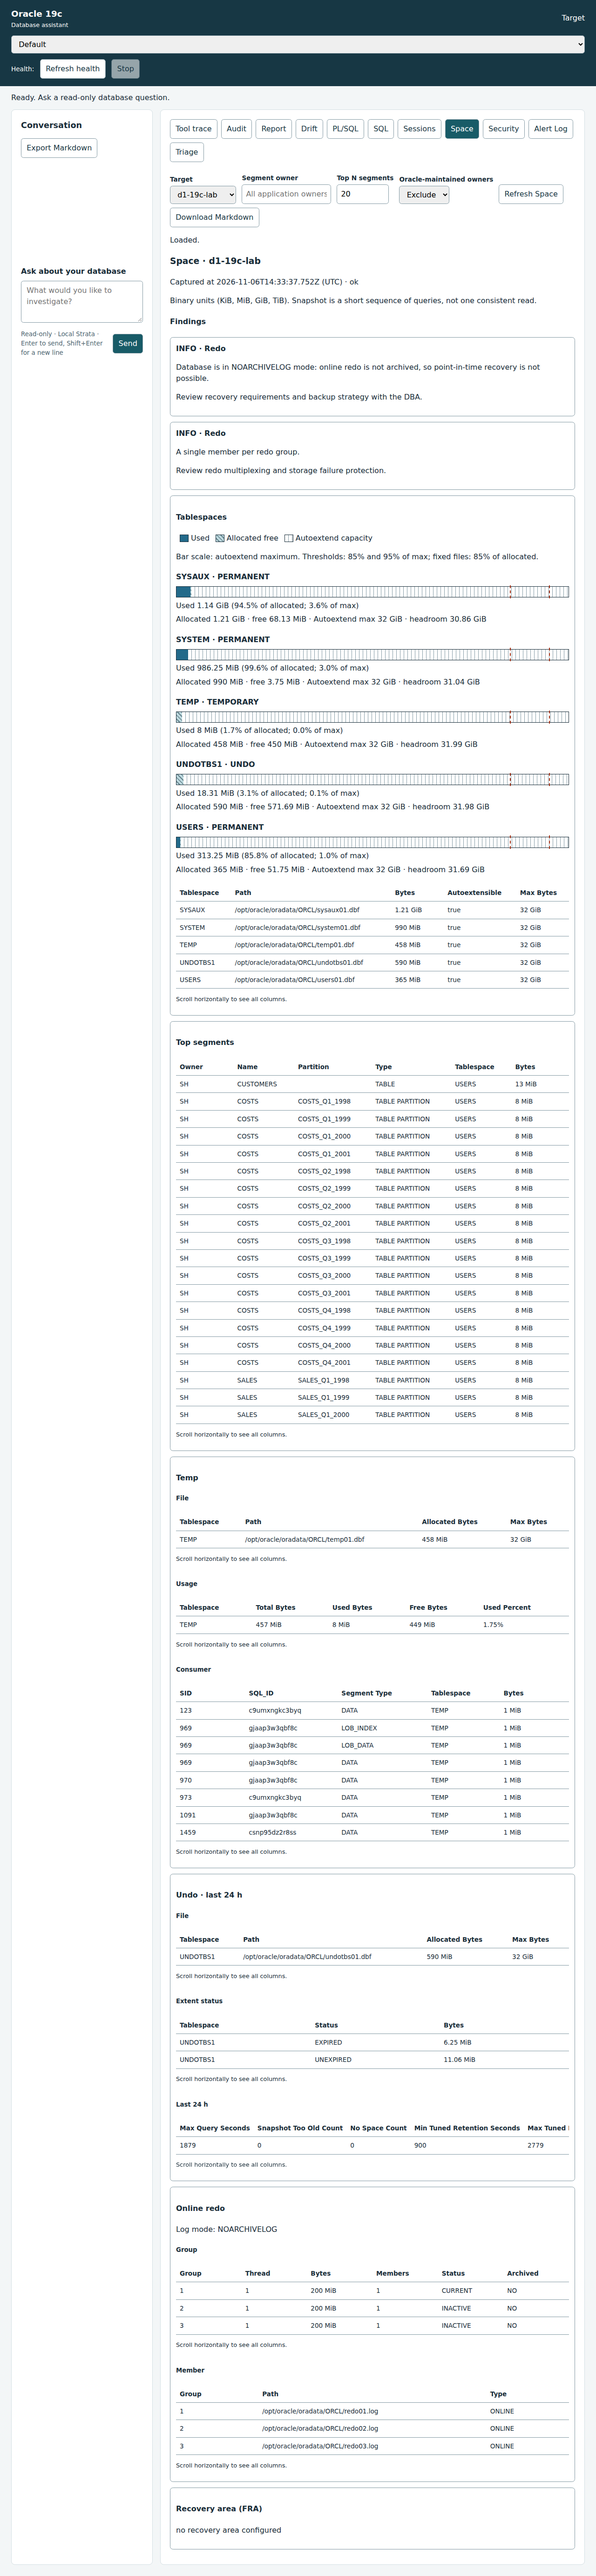
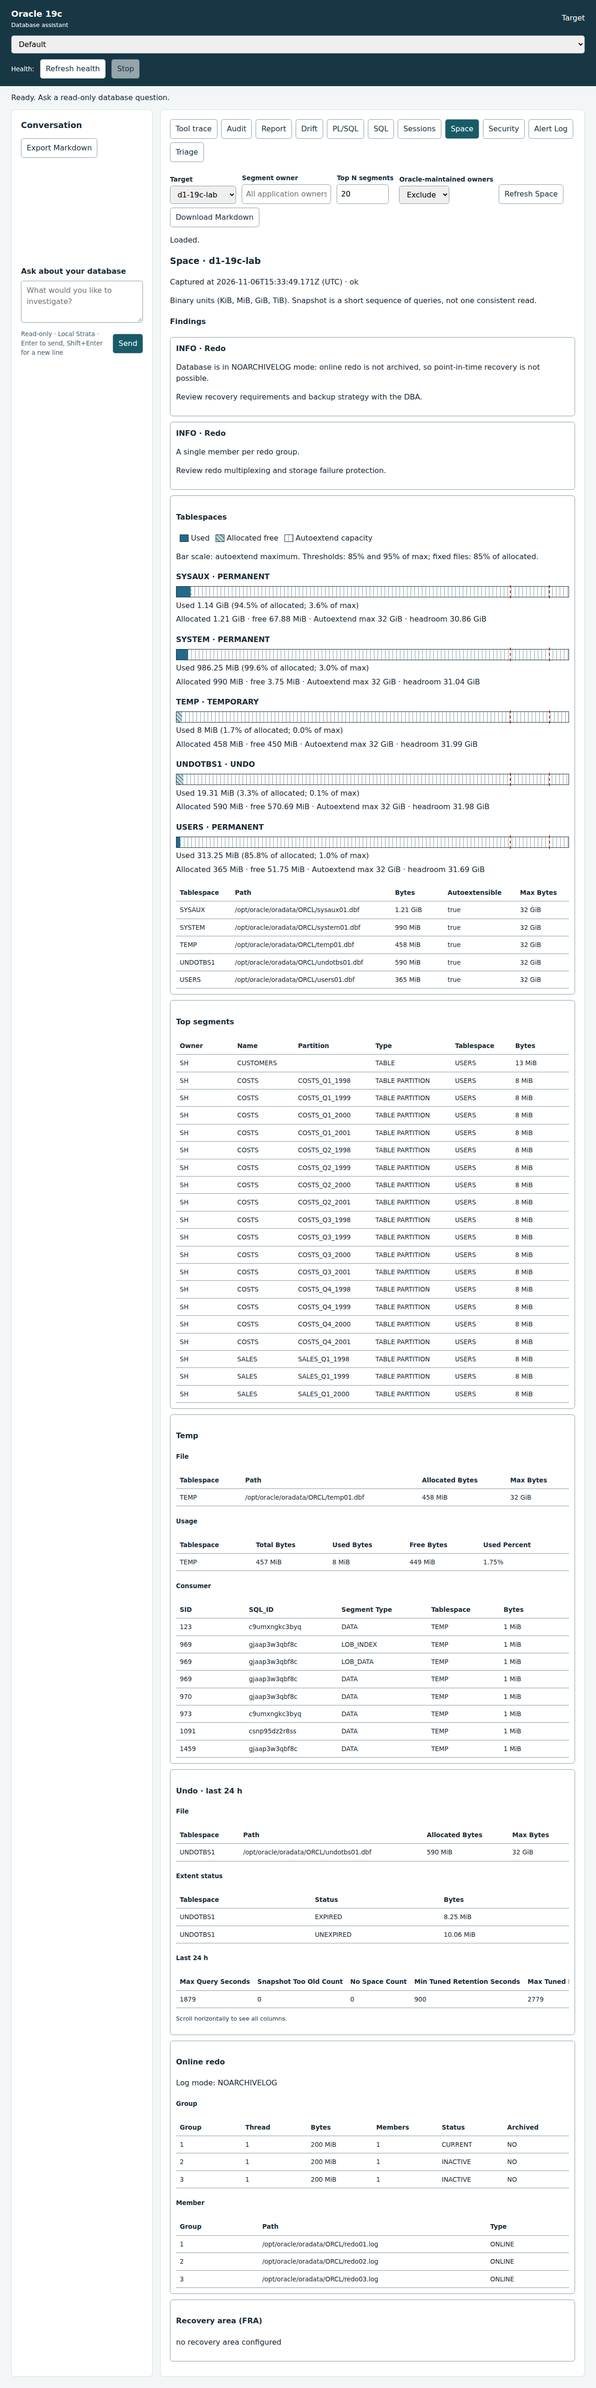
Show Space and Sessions scroll hints only for overflowing tables

diff --git a/src/web/static/dbsessions.js b/src/web/static/dbsessions.js
@@ -1,3 +1,4 @@
+import { updateTableHints } from './tableHints.js';
 import { setupPanel, execute } from './panel.js';
 import { layoutGraph } from './graphLayout.js';
 const el = (tag, text, cls) => { const n = document.createElement(tag); if (text !== undefined) n.textContent = String(text); if (cls) n.className = cls; return n; };
@@ -13,7 +14,7 @@ function table(parent, labels, rows, name) {
 	const body = el('tbody'); for (const values of rows) { const row = el('tr'); for (const value of values) { const td = el('td'); td.append(value instanceof Node ? value : document.createTextNode(String(value ?? '—'))); row.append(td); } body.append(row); }
 	table.append(body); box.append(table);
 	if (labels.length === 2) box.classList.add('dbsessions-narrow-table');
-	else { const hint = el('p', 'Scroll the table horizontally to see all columns.', 'dbsessions-scroll-hint'); box.append(hint); } box.tabIndex = 0; box.setAttribute('role', 'region'); box.setAttribute('aria-label', name); parent.append(box);
+	const hint = el('p', 'Scroll the table horizontally to see all columns.', 'dbsessions-scroll-hint'); box.append(hint); box.tabIndex = 0; box.setAttribute('role', 'region'); box.setAttribute('aria-label', name); parent.append(box);
 }
 export function blockingGraph(roots) {
 	const nodes = new Map(), edges = [];
@@ -59,6 +60,7 @@ export function renderDbSessions(content, result, filters = { status: 'all', wai
 	const activeRows = section('active', 'Active Sessions');
 	if (controls) { controls.hidden = false; content.append(controls); }
 	const active = activeRows.filter(r => (filters.status === 'all' || r.status === filters.status) && (filters.waitClass === 'all' || r.waitClass === filters.waitClass)); table(content, ['SID', 'User', 'Status', 'SQL_ID', 'Event', 'Wait Class', 'Wait (s)', 'Blocker'], active.map(r => [r.sid,r.username,r.status,sqlLink(r.sqlId,result.target),r.event,r.waitClass,r.secondsInWait,r.blockerSid]), 'Active sessions');
+	updateTableHints(content, '.dbsessions-scroll-hint');
 }
 export function initDbSessions(api, targets) {
 	const view = setupPanel('dbsessions', 'Refresh Sessions', targets);

diff --git a/tests/browser/space.spec.ts b/tests/browser/space.spec.ts
@@ -28,3 +28,25 @@ test('arrow navigation follows DOM order including Space in both directions',asy
 	for(let i=ids.length-1;i>=0;i--){await page.keyboard.press('ArrowLeft');await expect(page.locator('#'+ids[i])).toBeFocused();}
 	await page.keyboard.press('End');await expect(tabs.last()).toBeFocused();await page.keyboard.press('Home');await expect(tabs.first()).toBeFocused();
 });
+
+for (const panel of ['space', 'dbsessions']) test(`${panel} scroll hints follow actual overflow on render and resize`, async ({ page }) => {
+	const { dbSessionsFixture } = await import('./dbsessions-fixture.js');
+	const result = panel === 'space' ? spaceFixture() : dbSessionsFixture();
+	if (panel === 'space') (result as ReturnType<typeof spaceFixture>).sections.segments.rows = [{ owner: 'APP', name: 'ORDERS' }];
+	await page.setViewportSize({ width: 1280, height: 900 });
+	await page.route(`**/api/${panel === 'space' ? 'space' : 'db-sessions'}?*`, r => r.fulfill({ json: { result, markdown: '# Evidence' } }));
+	await page.goto(process.env.PIAGENT_BROWSER_URL!);
+	await page.locator(`#${panel}-tab`).click(); await page.locator(`#${panel}-run`).click();
+	await expect(page.locator(`#${panel}-status`)).toHaveText('Loaded.');
+	const narrow = page.getByRole('region', { name: panel === 'space' ? 'Top segments' : 'Time model', exact: true });
+	await expect.poll(() => narrow.evaluate(n => n.scrollWidth > n.clientWidth)).toBe(false);
+	await expect(narrow.locator('p')).toBeHidden();
+	const wide = page.getByRole('region', { name: panel === 'space' ? 'Top segments' : 'Wait events', exact: true });
+	for (const width of [390, 1280, 390]) {
+		await page.setViewportSize({ width, height: 900 });
+		if (width === 390) {
+			await expect.poll(() => wide.evaluate(n => n.scrollWidth > n.clientWidth)).toBe(true);
+			await expect(wide.locator('p')).toBeVisible();
+		} else await expect(narrow.locator('p')).toBeHidden();
+	}
+});

diff --git a/src/web/static/space.js b/src/web/static/space.js
@@ -1,3 +1,4 @@
+import { updateTableHints } from './tableHints.js';
 import { setupPanel, execute } from './panel.js';
 const el = (tag, text, cls) => { const n = document.createElement(tag); if (text !== undefined) n.textContent = String(text); if (cls) n.className = cls; return n; };
 const bytes = n => { const units = ['B','KiB','MiB','GiB','TiB','PiB']; let i=0; while(Math.abs(n)>=1024 && i<5) { n/=1024; i++; } return `${Number(n.toFixed(2))} ${units[i]}`; };
@@ -37,6 +38,7 @@ export function renderSpace(content, result) {
 			for(const kind of kinds) { if(kind) card.append(el('h5',kind)); table(card,s.rows.filter(r=>r.kind===kind).map(({kind:_,...r})=>r),`${title}${kind?' '+kind:''}`); }
 		}
 	}
+	updateTableHints(content, '.space-scroll-hint');
 }
 export function initSpace(api, targets) {
 	const view=setupPanel('space','Refresh Space',targets); view.form.className='space-toolbar';

diff --git a/src/web/static/tableHints.js b/src/web/static/tableHints.js
@@ -1,0 +1,19 @@
+const observers = new WeakMap();
+/** Recheck after rendering, container resizing, and tab visibility changes. */
+export function updateTableHints(content, selector) {
+	observers.get(content)?.disconnect();
+	const hints = [...content.querySelectorAll(selector)];
+	const update = () => {
+		for (const hint of hints) {
+			const box = hint.parentElement;
+			hint.hidden = box.scrollWidth <= box.clientWidth;
+		}
+	};
+	update();
+	const observer = new ResizeObserver(update);
+	for (const hint of hints) {
+		observer.observe(hint.parentElement);
+		observer.observe(hint.parentElement.querySelector('table'));
+	}
+	observers.set(content, observer);
+}

diff --git a/docs/wp-24c-space-web.md b/docs/wp-24c-space-web.md
@@ -30,3 +30,21 @@ Contract changes needed: none. The only additive web interface is the local opti
 Limitations: screenshots capture a sequence of SELECTs rather than a consistent point-in-time snapshot. Live targets currently have no FRA configured; the populated FRA path uses the same generic record table renderer as the other capacity cards. The Strata end-to-end integration case is deliberately excluded as requested.
 
 Commits: `5f0c586` contains the implementation and fixture coverage; a following documentation commit contains the SELECT-only live capture harness, screenshots and this report.
+
+## Coordinator review follow-up: conditional scroll hints
+
+Space and Sessions now show their horizontal-scroll hint only when the table container's `scrollWidth > clientWidth`. The shared `src/web/static/tableHints.js` helper measures after render and uses `ResizeObserver` on containers and tables to update after resizing or tab visibility changes. A fresh render disconnects the previous observer. Sessions changes are limited to this hint behavior, including hints for two-column tables when they overflow.
+
+Changed `src/web/static/space.js`, `src/web/static/dbsessions.js`, added `src/web/static/tableHints.js`, and extended `tests/browser/space.spec.ts`. The two new browser cases cover both tabs: a fitting table at 1280 px has no visible hint, a wide table at 390 px has a visible hint, and resizing back and forth updates the hint without another request.
+
+Retook all eight Space screenshots on d1 and p1 at 1280 and 390 px, light and dark, using the SELECT-only capture harness. Viewed every replacement screenshot individually. Hints disappear from fitting desktop tables and remain on genuinely overflowing tables (including the wide undo statistics table at desktop width). Phone tables retain hints and stay contained without page-level horizontal scroll.
+
+Follow-up validation (all exit 0):
+
+- `npm run typecheck`: passed.
+- `npm test -- --maxWorkers=2`: 97 files passed; 1,479 tests passed.
+- `npm run test:browser`: 71 passed, 6 opt-in live tests skipped.
+- `PIAGENT_SECRET_DIR=/home/kiwi/OracleDBHarness/databases/secrets PIAGENT_SPACE_LIVE=1 npm run test:browser -- tests/browser/space-live.spec.ts`: 1 passed; eight fresh screenshots.
+- `git diff --check`: passed.
+
+No contract changes needed. The prior integration result above remains the last integration run; this follow-up changes browser presentation only. No Strata calls were made.
